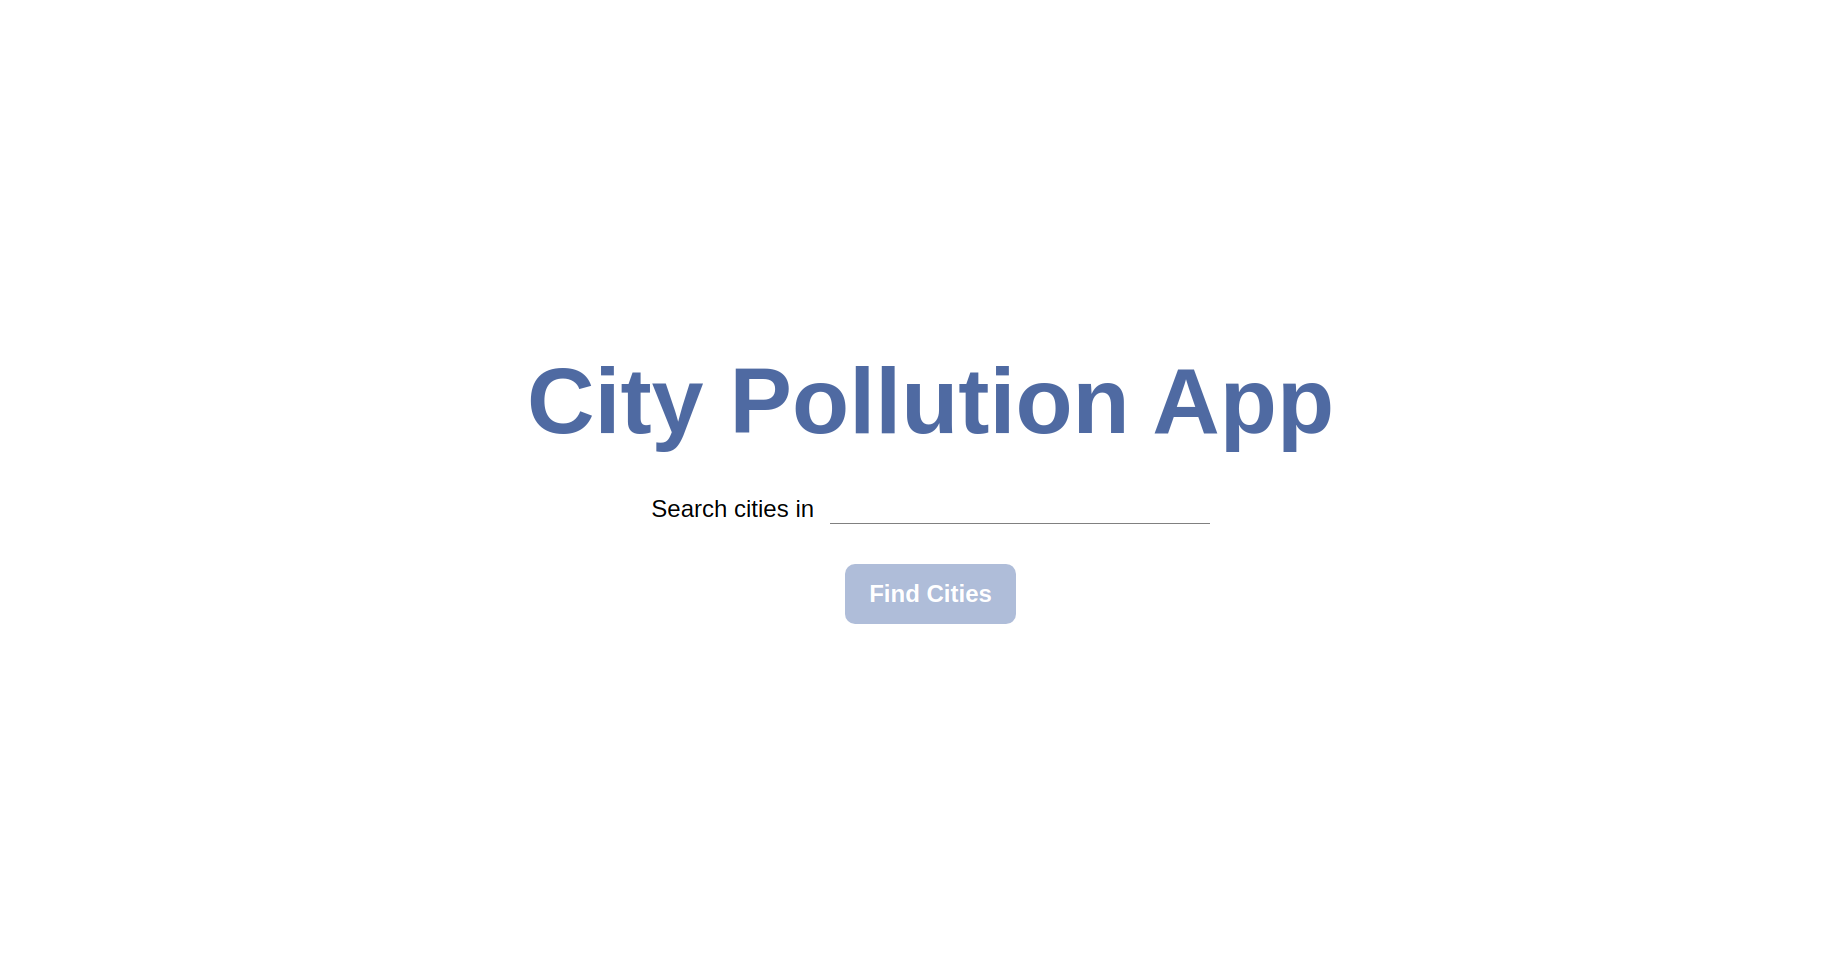
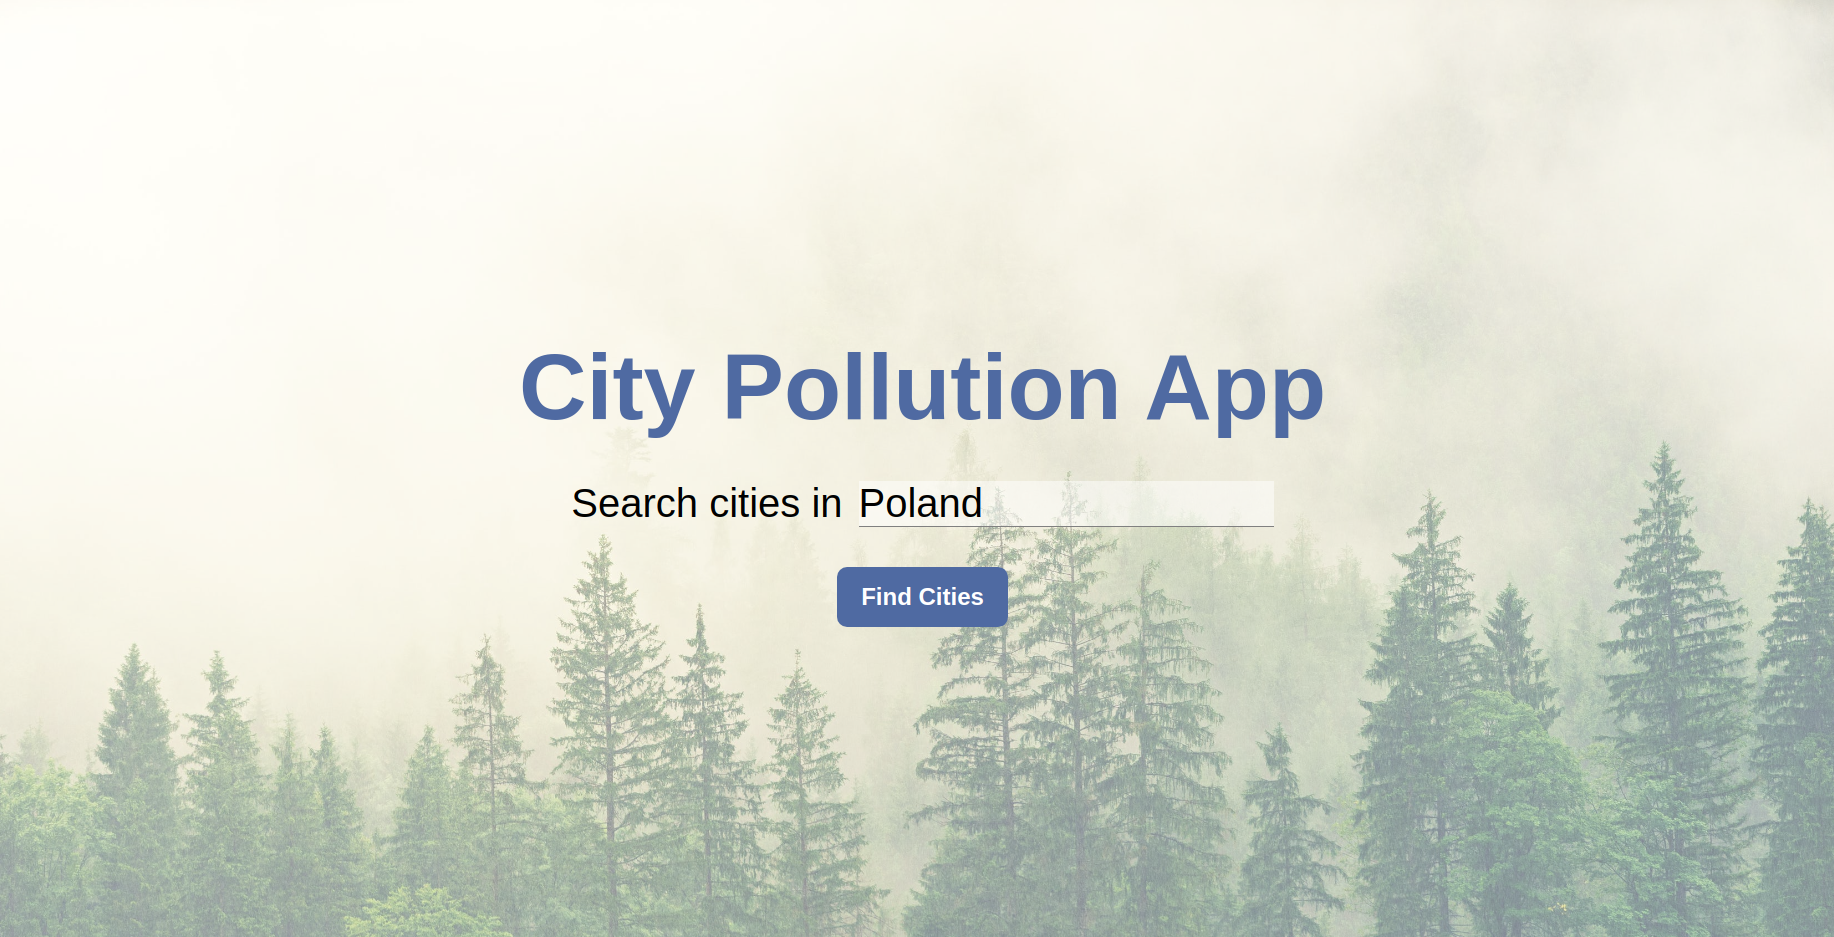
change background

diff --git a/city-pollution-app/src/Styles/_app.scss b/city-pollution-app/src/Styles/_app.scss
@@ -6,11 +6,25 @@
 
 .app {
   //border: 1px solid red;
-  background-color: white;
+  // background-color: white;
+
   width: 100vw;
   height: 100vh;
   display: flex;
   justify-content: center;
   align-items: center;
   flex-direction: column;
+  &::after {
+    content: "";
+    background-image: url('../Images/img.jpeg');
+    background-repeat: no-repeat;
+    background-size: cover;
+    opacity: 0.5;
+    top: 0;
+    left: 0;
+    bottom: 0;
+    right: 0;
+    position: absolute;
+    z-index: -1;   
+  }
 }

diff --git a/city-pollution-app/src/Styles/_search.scss b/city-pollution-app/src/Styles/_search.scss
@@ -9,7 +9,7 @@
 
   // border: 1px solid green;
   
-  font-size: 1.5rem;
+  font-size: 2.5rem;
   font-family: Arial, Helvetica, sans-serif;
   color: black;
   label {
@@ -20,8 +20,9 @@
     outline: none;
     width: 50%;
     border: none;
+    background-color: rgba($color: white, $alpha: 0.5);
     border-bottom: 1px solid gray;
-    font-size: 1.5rem;
+    font-size: 2.5rem;
     font-family: Arial, Helvetica, sans-serif;
     color: black;
   }

diff --git a/city-pollution-app/src/Styles/_cities.scss b/city-pollution-app/src/Styles/_cities.scss
@@ -44,6 +44,7 @@
       }
       .bottom {
         padding: 0.5rem;
+        background-color: white;
         display: flex;
         justify-content: space-between;
         align-items: center;
